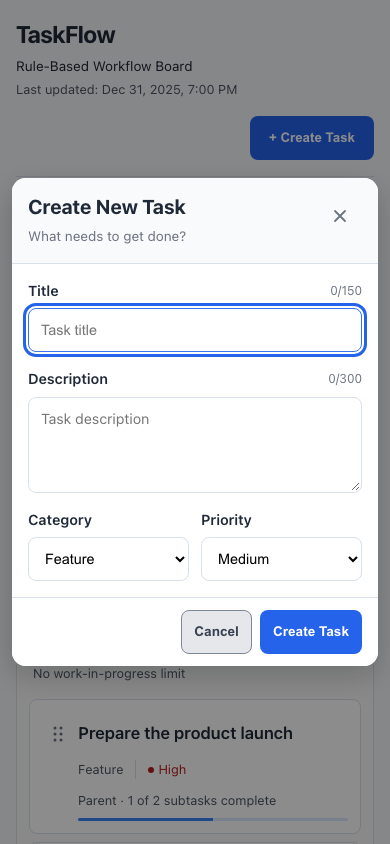
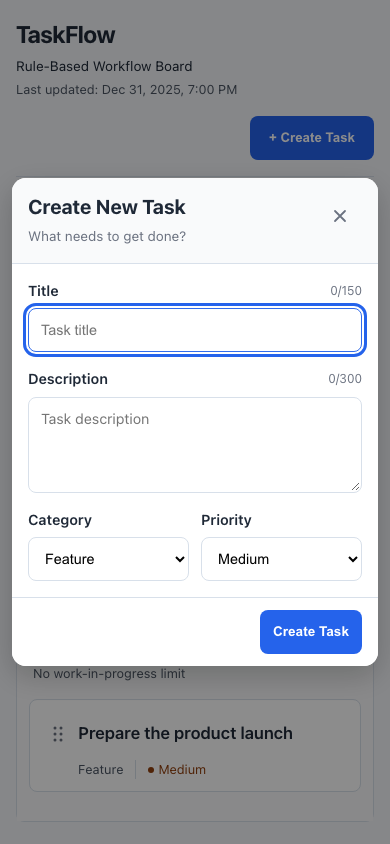
polish: use protected close control for creation forms

Changed region(s): [[0.2154, 0.8934, 0.5538, 0.9858], [0.4615, 0.7085, 0.6462, 0.8009], [0.5846, 0.9242, 0.7077, 0.955]]

diff --git a/src/components/TaskForm/TaskForm.tsx b/src/components/TaskForm/TaskForm.tsx
@@ -356,10 +356,6 @@ export default function TaskForm({
           </div>
           <div className="create-task-actions task-action-footer">
             {currentTask && !isSubtask && currentTask.status !== "done" && <button type="button" id={`${fieldPrefix}-add-subtask`} className="edit-task-button add-editor-subtask" aria-label={`Add SubTask to ${currentTask.title}`} onClick={() => setSubtaskEditor({ type: "create" })}>Add Subtask</button>}
-            {!isEditing && <Button variant="secondary" onClick={handleRequestClose}>
-              Cancel
-            </Button>}
-
             <Button type="submit">
               {isEditing ? "Save Changes" : parent ? "Create SubTask" : "Create Task"}
             </Button>

diff --git a/docs/v2-task-details.md b/docs/v2-task-details.md
@@ -111,3 +111,9 @@ Save Changes stays blue and Add Subtask stays subtle blue. Green is reserved for
 Verification: the final full unit/component/integration rerun passed 467/467 across 43 files using one worker and unchanged timeouts/assertions. The initial parallel run hit the existing 5-second application-journey timeout; the unchanged journey passed in isolation before the full rerun. Production checks at 1440, 390 and 320px cover parent tasks, tasks without subtasks, linked subtasks and completed tasks in both details and editors: adjacent footer spacing, matching Delete colors, readable labels, 44px targets, child creation and focus return all passed. Lint, strict TypeScript and the production build passed.
 
 All 46 production desktop/mobile browser checks passed on the final build. Existing footer assertions now verify the same Delete palette and adjacent gaps in details/editing at 1440, 390, 375 and 320px. Updated screenshots include all detail/editor variants and the task-without-subtasks editor.
+
+## Creation exit control
+
+Create New Task and Add SubTask now use the header × to exit, matching the editors. Their footer contains only the Create action. Keep Editing / Discard still protects unsaved input, and Escape follows the same guard. Confirmation and relationship dialogs retain their existing actions.
+
+Verification before pushing: all 467 tests in 43 files passed with unchanged timeouts/assertions; lint, strict TypeScript and production build passed. Four focused desktop/mobile Chromium journeys passed. Additional production checks at 1440/390/320px verified both creation footers contain only Create, Keep Editing preserves the draft, Discard closes it and focus returns to the opener. [Desktop Add SubTask](images/v2-task-details/desktop-subtask-create.png) · [Mobile Add SubTask](images/v2-task-details/mobile-subtask-create.png). Creation screenshots were refreshed. Manage Parent placement is unchanged pending the next design decision.
